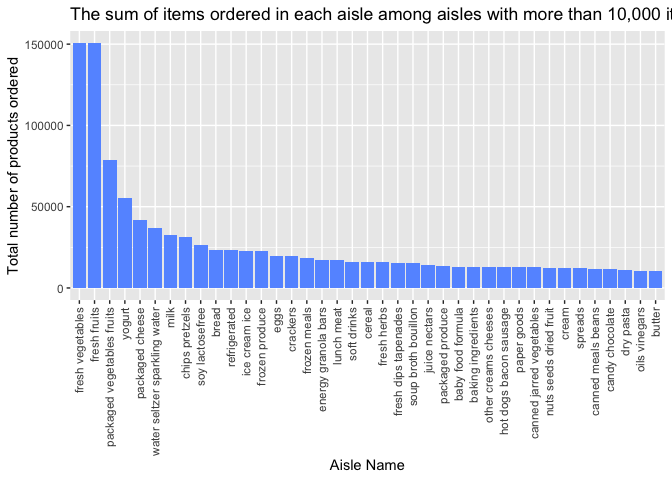
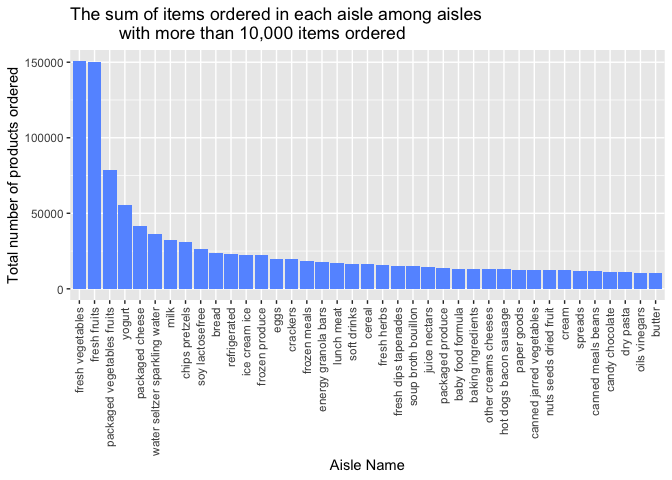
Adding description of accelerometer data.

diff --git a/p8105_hw3_jdr2191.md b/p8105_hw3_jdr2191.md
@@ -108,7 +108,9 @@ Cucumber Kirby, Lightly Smoked Sardines in Olive Oil. Products come from
 different aisles, such as yogurt, other creams cheeses, fresh
 vegetables, canned meat seafood, fresh fruits and different departments,
 including for example, dairy eggs, produce, canned goods, beverages,
-deli.
+deli. The dataset provides detailed information about the hour and day
+of the week that orders are placed and even tells us the order in which
+products were added to orders.
 
 How many aisles are there, and which aisles are the most items ordered
 from?
@@ -119,11 +121,7 @@ aisles =
     group_by(aisle_id, aisle) %>% 
     summarize(sum_products_ordered = n()) %>% 
     arrange(desc(sum_products_ordered))
-```
 
-    ## `summarise()` has grouped output by 'aisle_id'. You can override using the `.groups` argument.
-
-``` r
 view(aisles)
 ```
 
@@ -150,7 +148,8 @@ aislesplot %>%
   ggplot(aes(x = reorder(aisle, -sum_products_ordered), y = sum_products_ordered)) + 
   geom_bar(stat = "identity", fill = "#6699ff") +
   theme(axis.text.x = element_text(angle = 90,hjust = 1,vjust = 0.5)) +
-  ggtitle("The sum of items ordered in each aisle among aisles with more than 10,000 items ordered") +
+  ggtitle("The sum of items ordered in each aisle among aisles 
+          with more than 10,000 items ordered") +
   xlab("Aisle Name") + ylab("Total number of products ordered")
 ```
 
@@ -206,8 +205,13 @@ appleicecream =
               values_from = "meanhour"
   )
 
-view(appleicecream)
+knitr::kable(appleicecream)
 ```
+
+| product\_name    | Sun | Mon | Tue | Wed | Thu | Fri | Sat |
+|:-----------------|----:|----:|----:|----:|----:|----:|----:|
+| Pink Lady Apples |  13 |  11 |  12 |  14 |  12 |  13 |  12 |
+| Coffee Ice Cream |  14 |  14 |  15 |  15 |  15 |  12 |  14 |
 
 # Problem 2
 
@@ -350,6 +354,9 @@ accel = read_csv("accel_data.csv") %>%
 ``` r
 view(accel)  
 ```
+
+There are 35 observations and 1444 variables in the tidied accelerometer
+dataset. The dataset includes data over 1, 2, 3, 4, 5
 
 Traditional analyses of accelerometer data focus on the total activity
 over the day. Using your tidied dataset, aggregate accross minutes to
